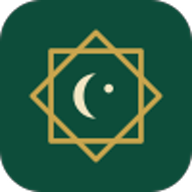
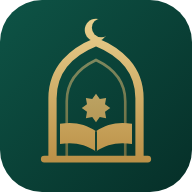
1.0 (B): شعار وأيقونات جديدة، وشاشة بداية، وتحية بالاسم، واقتراح اليوم، وأجراس الصلوات، وبطاقة القبلة
- شعار: قوس معماري وهلال ومصحف مفتوح، وأيقونات Android (عادية ومستديرة وتكيفية) وiOS وPWA من مصدر واحد
- شاشة بداية بالأخضر الداكن وإطار قوس ذهبي
- اقتراح يومي هادئ من إعدادات المستخدم وسجله المحلي (بلا تقييم للحال)
- جرس تنبيه لكل صلاة في صفحة المواقيت، وبطاقة القبلة بالدرجات والمسافة

Claude-Session: https://claude.ai/code/session_01FMDaq16prRpeSrZUs2VVhJ

diff --git a/src/features/home/HomePage.tsx b/src/features/home/HomePage.tsx
@@ -18,7 +18,10 @@ import { nextPrayer, PRAYER_LABELS, PRAYERS, todayTimes } from '../../services/p
 import { dayKey, formatCountdown, formatGregorian, formatHijri, formatTime } from '../../lib/dates'
 import { cityLabel } from '../../services/cities'
 import { adhkarLog, kv, memo } from '../../db/repos'
-import { KhatmaCard } from '../wird/KhatmaCard'
+import { KhatmaCard, useKhatmas } from '../wird/KhatmaCard'
+import { activePlan, dailyTarget } from '../../services/khatma'
+import { dailySuggestion } from '../../services/dailySuggest'
+import { Lightbulb } from 'lucide-react'
 import { useAllLogs } from '../progress/ProgressPage'
 import { computeStats, dailySeries } from '../../services/stats'
 import { adhkarForNow, ayahOfDay, greeting } from '../../services/daily'
@@ -80,6 +83,10 @@ export function HomePage() {
   const done = new Set(adhkar.map((a) => a.category))
   const due = segs.filter((s) => !s.paused && s.status !== 'new' && s.due <= today).length
   const nowAdhkar = adhkarForNow(hour)
+  const khatmas = useKhatmas()
+  const plan = khatmas ? activePlan(khatmas) : null
+  const tgt = plan ? dailyTarget(plan, today) : null
+  const suggestion = dailySuggestion({ hour, hasLocation: !!loc, adhkarDone: done, memoDue: due, khatma: plan && tgt ? { active: true, doneToday: tgt.doneToday >= tgt.pages, from: tgt.from, to: tgt.to, page: plan.nextPage } : { active: false, doneToday: false } })
   const aod = ayahOfDay(today)
   const aodText = data?.verses[aod.surah - 1][aod.ayah - 1]
   const aodName = data?.meta.surahs[aod.surah - 1].name
@@ -88,6 +95,13 @@ export function HomePage() {
   const resumeTo = last ? (settings.readerMode === 'mushaf' && last.page ? `/mushaf/${last.page}` : `/quran/${last.surah}?ayah=${last.ayah}`) : '/quran/1'
 
   const cards: Record<HomeCardId, ReactNode> = {
+    suggest: (
+      <Link to={suggestion.to} className="list-card suggest-card" aria-label={`اقتراح اليوم: ${suggestion.title}`}>
+        <span className="icon-chip"><Lightbulb size={22} aria-hidden="true" /></span>
+        <span className="lc-body"><small>اقتراح اليوم</small><strong>{suggestion.title}</strong><small>{suggestion.body}</small></span>
+        <span className="btn btn-sm btn-primary">{suggestion.action}</span>
+      </Link>
+    ),
     continue: (
       <section className="card home-continue-card" aria-label="أكمل قراءتك">
         {!data ? <Spinner /> : (
@@ -132,7 +146,7 @@ export function HomePage() {
               <Link className="small" to={`/quran/${aod.surah}?ayah=${aod.ayah}`}>سورة {aodName}: {aod.ayah}</Link>
               <span className="row">
                 <button className="btn btn-ghost btn-sm icon-btn" aria-label="استماع لآية اليوم" onClick={() => player.play({ reciterId: settings.reciterId, surah: aod.surah, surahName: aodName!, from: aod.ayah, to: aod.ayah })}><Play size={16} /></button>
-                <Link className="btn btn-ghost btn-sm icon-btn" aria-label="تفسير آية اليوم" to={`/learn?s=${aod.surah}&a=${aod.ayah}`}><Library size={16} /></Link>
+                <Link className="btn btn-sm btn-gold" aria-label="تفسير آية اليوم" to={`/learn?s=${aod.surah}&a=${aod.ayah}`}><Library size={15} /> تفسير الآية</Link>
                 <button className="btn btn-ghost btn-sm icon-btn" aria-label="مشاركة آية اليوم كصورة" onClick={() => setShareAyah(true)}><Image size={16} /></button>
               </span>
             </div>
@@ -208,10 +222,12 @@ export function HomePage() {
   return (
     <div className="home">
       <header className="home-hero">
+        <MosqueScene tone={toneFor(np?.name)} className="home-hero-art" />
         <div className="home-hero-row">
           <Link to="/reminders" className="hero-icon" aria-label="إعدادات التذكير"><Bell size={20} /></Link>
           <div className="home-hero-text">
-            <div className="hero-greet">{greeting(hour, today)}</div>
+            <div className="hero-greet">{settings.displayName.trim() ? `السلام عليكم، ${settings.displayName.trim()}` : greeting(hour, today)}</div>
+            {settings.displayName.trim() && <div className="hero-sub">{greeting(hour, today)}</div>}
             <div className="hero-sub">{formatGregorian(now, loc?.tz)}</div>
             <div className="hero-hijri">{formatHijri(now, loc?.tz, settings.hijriOffset)}</div>
           </div>
@@ -280,6 +296,9 @@ export function HomePage() {
             </li>
           ))}
         </ul>
+        <label className="field" style={{ marginTop: '1rem' }}><span>اسمك للتحية (اختياري، يبقى على جهازك)</span>
+          <input className="input" value={settings.displayName} maxLength={30} onChange={(e) => update({ displayName: e.target.value })} placeholder="مثال: محمد" />
+        </label>
         <h3 style={{ marginTop: '1rem' }}>اختصارات الوصول السريع</h3>
         <p className="small muted">اختر حتى {MAX_QUICK_LINKS} أقسام تستخدمها كثيرًا.</p>
         <div className="quick-choices">

diff --git a/src/features/prayer/PrayerPage.tsx b/src/features/prayer/PrayerPage.tsx
@@ -9,6 +9,32 @@ import { dayKey, shiftDayKey } from '../../lib/dates'
 import type { PrayerName } from '../../services/prayer'
 import type { PrayerKey } from '../../state/settings'
 import { platformName } from '../../platform'
+import { compassName, distanceToKaabaKm, qiblaBearing } from '../../services/qibla'
+
+/** بطاقة القبلة المختصرة: الاتجاه المحسوب بالدرجات من الشمال الجغرافي والمسافة إلى الكعبة */
+function QiblaCard({ lat, lng, place }: { lat: number; lng: number; place: string }) {
+  const deg = qiblaBearing(lat, lng)
+  return (
+    <Link to="/qibla" className="card qibla-card" aria-label={`اتجاه القبلة ${Math.round(deg)} درجة`}>
+      <div>
+        <div className="small muted">اتجاه القبلة من {place}</div>
+        <div className="qc-deg">{Math.round(deg)}°</div>
+        <div className="small">{compassName(deg)} • {Math.round(distanceToKaabaKm(lat, lng)).toLocaleString('ar')} كم إلى الكعبة</div>
+        <div className="small muted" style={{ marginTop: 4 }}>محسوب من الإحداثيات (من الشمال الجغرافي). افتح البوصلة للتوجيه.</div>
+      </div>
+      <svg className="qc-dial" viewBox="0 0 100 100" aria-hidden="true">
+        <circle cx="50" cy="50" r="44" fill="none" stroke="currentColor" strokeOpacity="0.25" strokeWidth="2" />
+        {[0, 90, 180, 270].map((a) => <line key={a} x1="50" y1="8" x2="50" y2="14" stroke="currentColor" strokeOpacity="0.5" strokeWidth="2" transform={`rotate(${a} 50 50)`} />)}
+        <text x="50" y="24" textAnchor="middle" fontSize="9" fill="currentColor" opacity="0.7">ش</text>
+        <g transform={`rotate(${deg} 50 50)`}>
+          <path d="M50 16 L56 50 L50 46 L44 50 Z" fill="#C6A15B" />
+          <rect x="45" y="12" width="10" height="9" rx="1.5" fill="#26352F" stroke="#C6A15B" strokeWidth="1" />
+        </g>
+        <circle cx="50" cy="50" r="3" fill="#C6A15B" />
+      </svg>
+    </Link>
+  )
+}
 import { CityPicker } from '../../components/CityPicker'
 import { useNow } from '../../hooks'
 import { useSettings } from '../../state/SettingsContext'
@@ -100,16 +126,24 @@ export function PrayerPage() {
                     <span className="pr-name">{PRAYER_LABELS[p]}</span>
                     <span className="pr-time">{formatTime(today[p], loc.tz)}</span>
                     <span className="pr-end">
-                      {settings.trackPrayers && p !== 'sunrise'
-                        ? <button className={'prayed-btn' + (prayed.includes(p as PrayerKey) ? ' on' : '')} onClick={() => togglePrayed(p as PrayerKey)} aria-pressed={prayed.includes(p as PrayerKey)} aria-label={`صلّيت ${PRAYER_LABELS[p]}`}><CircleCheck size={18} /></button>
-                        : notif ? <Bell size={15} aria-label="التنبيه مفعّل" /> : null}
+                      {settings.trackPrayers && p !== 'sunrise' && <button className={'prayed-btn' + (prayed.includes(p as PrayerKey) ? ' on' : '')} onClick={() => togglePrayed(p as PrayerKey)} aria-pressed={prayed.includes(p as PrayerKey)} aria-label={`صلّيت ${PRAYER_LABELS[p]}`}><CircleCheck size={18} /></button>}
+                      {p !== 'sunrise' && (
+                        <button className={'bell-btn' + (notif ? ' on' : '')} aria-pressed={n.perPrayer[p as PrayerKey]} aria-label={`تنبيه ${PRAYER_LABELS[p]}`}
+                          title={n.enabled ? undefined : 'التذكيرات العامة متوقفة — فعّلها من إعدادات التذكير'}
+                          onClick={() => update((st) => ({ notifications: { ...st.notifications, perPrayer: { ...st.notifications.perPrayer, [p]: !st.notifications.perPrayer[p as PrayerKey] } } }))}>
+                          {n.perPrayer[p as PrayerKey] ? <Bell size={16} /> : <BellOff size={16} />}
+                        </button>
+                      )}
                     </span>
                   </li>
                 )
               })}
             </ul>
             {settings.trackPrayers && <WeekSummary today={today_} />}
+            {!n.enabled && <p className="small muted" style={{ margin: '0.5rem 0 0' }}>أجراس الصلوات تحدد أي صلاة يُنبَّه لها، والتذكيرات نفسها متوقفة الآن. <Link to="/reminders">تفعيل التذكيرات</Link></p>}
           </section>
+
+          <QiblaCard lat={loc.lat} lng={loc.lng} place={loc.nameAr ?? loc.name} />
 
           {platformName() === 'android' && (
             <section className="card" style={{ gridColumn: '1 / -1' }}>

diff --git a/src/styles/theme.css b/src/styles/theme.css
@@ -95,11 +95,12 @@ main.content > * { animation: page-in 0.22s ease-out; }
 .splash { position: fixed; inset: 0; z-index: 200; overflow: hidden; background: #0e2a22; color: #fff; display: flex; flex-direction: column; justify-content: space-between; cursor: pointer; transition: opacity 0.4s ease; }
 .splash.leaving { opacity: 0; }
 .splash-art { position: absolute; inset: 0; width: 100%; height: 100%; }
-.splash-veil { position: absolute; inset: 0; background: linear-gradient(to bottom, rgba(240, 244, 236, 0.96) 0%, rgba(240, 244, 236, 0.82) 30%, rgba(240, 244, 236, 0) 52%, rgba(6, 24, 19, 0) 70%, rgba(6, 24, 19, 0.85) 100%); }
-.splash-top { position: relative; text-align: center; padding: calc(12vh + env(safe-area-inset-top, 0px)) 1.5rem 0; color: #073B32; animation: rise 0.8s ease-out both; }
-.splash-logo { color: #073B32; }
-.splash-top h1 { font-family: var(--font-classic); font-size: clamp(2.4rem, 9vw, 3.4rem); margin: 0.4rem 0 0.2rem; color: #073B32; }
-.splash-top p { margin: 0; color: #2c4a3f; font-size: 1.05rem; }
+.splash-veil { position: absolute; inset: 0; background: linear-gradient(to bottom, rgba(5, 34, 29, 0.97) 0%, rgba(7, 59, 50, 0.9) 34%, rgba(7, 59, 50, 0.25) 60%, rgba(4, 24, 20, 0.15) 72%, rgba(4, 24, 20, 0.9) 100%); }
+.splash-arch { position: absolute; inset: calc(4vh + env(safe-area-inset-top, 0px)) 7vw 0; width: 86vw; height: 96vh; pointer-events: none; }
+.splash-top { position: relative; text-align: center; padding: calc(13vh + env(safe-area-inset-top, 0px)) 1.5rem 0; color: #F5F0E6; animation: rise 0.8s ease-out both; }
+.splash-logo { color: #C6A15B; filter: drop-shadow(0 4px 14px rgba(198, 161, 91, 0.35)); }
+.splash-top h1 { font-family: var(--font-classic); font-size: clamp(2.4rem, 9vw, 3.4rem); margin: 0.5rem 0 0.2rem; color: #E9CF8E; }
+.splash-top p { margin: 0; color: #F5F0E6; opacity: 0.9; font-size: 1.05rem; }
 .splash-bottom { position: relative; text-align: center; padding: 0 1.5rem calc(2.2rem + env(safe-area-inset-bottom, 0px)); animation: rise 0.8s 0.25s ease-out both; }
 .splash-items { opacity: 0.9; margin: 0 0 1rem; letter-spacing: 0.02em; }
 .splash-sadaqah { font-family: var(--font-classic); font-size: 1.2rem; color: #f0d68f; margin: 0; line-height: 1.8; }
@@ -356,3 +357,19 @@ button.voice-hit { font: inherit; text-align: start; cursor: pointer; width: 100
 .seg button { border: 0; background: none; padding: 0.15rem 0.6rem; border-radius: 8px; font: inherit; font-size: 0.8rem; color: var(--text-muted); cursor: pointer; }
 .seg button[aria-checked='true'] { background: var(--surface); color: var(--primary); font-weight: 700; box-shadow: var(--shadow); }
 .mosque-row .btn { flex-shrink: 0; }
+
+/* ======================= 1.0: الرئيسية ======================= */
+.home-hero-art { position: absolute; inset: 0; width: 100%; height: 100%; opacity: 0.85; }
+.home-hero::after { content: ""; position: absolute; inset: 0; background: linear-gradient(to bottom, rgba(5, 34, 29, 0.62), rgba(7, 59, 50, 0.35) 55%, rgba(7, 59, 50, 0.75)); pointer-events: none; }
+.home-hero-row { z-index: 1; }
+.suggest-card { border-color: color-mix(in srgb, var(--gold-2) 55%, var(--border)); background: linear-gradient(135deg, var(--gold-soft), var(--surface) 70%); }
+.suggest-card .lc-body small:first-child { color: var(--gold); font-weight: 700; }
+.suggest-card .btn { flex-shrink: 0; }
+.prayer-row { grid-template-columns: 36px 1fr auto auto; }
+.pr-end { gap: 0.3rem; }
+.bell-btn { width: 34px; height: 34px; border-radius: 50%; border: 1px solid var(--border); background: var(--surface); color: var(--text-muted); display: grid; place-items: center; cursor: pointer; }
+.bell-btn.on { color: var(--gold); border-color: color-mix(in srgb, var(--gold-2) 60%, var(--border)); background: var(--gold-soft); }
+.qibla-card { grid-column: 1 / -1; display: flex; align-items: center; justify-content: space-between; gap: 1rem; text-decoration: none; color: inherit; background: linear-gradient(135deg, var(--brand-dark), #0B4A3E); color: #F5F0E6; border-color: #0B4A3E; }
+.qibla-card .muted { color: rgba(245, 240, 230, 0.75); }
+.qc-deg { font-size: 2.2rem; font-weight: 700; color: #E9CF8E; line-height: 1.2; }
+.qc-dial { width: 110px; height: 110px; flex-shrink: 0; color: #F5F0E6; }

diff --git a/src/state/settings.ts b/src/state/settings.ts
@@ -55,7 +55,7 @@ export const QURAN_FONTS: { id: QuranFont; label: string; family: string; note: 
   { id: 'scheherazade', label: 'شهرزاد', family: '"Scheherazade New", "Amiri Quran", serif', note: 'نسخي واضح بحروف كبيرة' },
   { id: 'noto-naskh', label: 'نسخ حديث', family: '"Noto Naskh Arabic", "Amiri Quran", serif', note: 'خط حديث بسيط' },
 ]
-export type HomeCardId = 'continue' | 'khatma' | 'adhkar' | 'ayah' | 'quick' | 'summary' | 'dedication' | 'shortcuts'
+export type HomeCardId = 'continue' | 'suggest' | 'khatma' | 'adhkar' | 'ayah' | 'quick' | 'summary' | 'dedication' | 'shortcuts'
 
 export interface Settings {
   /** gold: أسود وذهبي (مبني على الوضع الداكن مع لون ذهبي بدل الأخضر) */
@@ -90,6 +90,8 @@ export interface Settings {
   keepAwake: boolean
   /** متابعة أداء الصلوات (اختيارية، تُحفظ على الجهاز فقط) */
   trackPrayers: boolean
+  /** اسم اختياري للتحية في الرئيسية (يبقى على الجهاز) */
+  displayName: string
 }
 
 export const QUICK_LINK_CHOICES = ['/tasbih', '/qibla', '/duas', '/calendar', '/adhkar', '/quran', '/listen', '/prayer', '/wird', '/memorize', '/learn', '/my-adhkar', '/search', '/progress', '/reminders', '/studio', '/mosques']
@@ -98,6 +100,7 @@ export const DEFAULT_QUICK_LINKS = ['/qibla', '/tasbih', '/wird', '/calendar']
 export const MAX_QUICK_LINKS = 8
 
 export const HOME_CARD_LABELS: Record<HomeCardId, string> = {
+  suggest: 'اقتراح اليوم',
   continue: 'أكمل قراءتك',
   khatma: 'ورد القرآن',
   adhkar: 'أذكار الوقت',
@@ -111,7 +114,7 @@ export const HOME_CARD_LABELS: Record<HomeCardId, string> = {
 /** بطاقة الإهداء جزء ثابت من هوية التطبيق: يمكن تغيير موضعها لا إخفاؤها. */
 export const LOCKED_HOME_CARDS: HomeCardId[] = ['dedication']
 
-export const DEFAULT_HOME_CARDS: Settings['homeCards'] = (['continue', 'khatma', 'adhkar', 'summary', 'ayah', 'quick', 'dedication', 'shortcuts'] as HomeCardId[]).map((id) => ({ id, visible: true }))
+export const DEFAULT_HOME_CARDS: Settings['homeCards'] = (['continue', 'suggest', 'khatma', 'adhkar', 'summary', 'ayah', 'quick', 'dedication', 'shortcuts'] as HomeCardId[]).map((id) => ({ id, visible: true }))
 
 export const DEFAULT_NOTIFICATIONS: NotificationSettings = {
   enabled: false,
@@ -159,6 +162,7 @@ export const DEFAULT_SETTINGS: Settings = {
   adhkarVibrate: true,
   keepAwake: true,
   trackPrayers: false,
+  displayName: '',
 }
 
 /** يضمن أن قائمة بطاقات الرئيسية تحتوي كل البطاقات المعروفة مرة واحدة، وأن البطاقات المقفلة ظاهرة */

diff --git a/src/services/dailySuggest.ts b/src/services/dailySuggest.ts
@@ -1,0 +1,24 @@
+// «اقتراح اليوم»: اقتراح واحد هادئ يُبنى من إعدادات المستخدم وسجله على جهازه فقط.
+// لا يقيّم حال المستخدم ولا يلومه، ولا يدّعي معرفة ما لا يسجله التطبيق.
+import { timeOfDay } from './daily'
+
+export interface SuggestInput {
+  hour: number
+  hasLocation: boolean
+  adhkarDone: Set<string>
+  memoDue: number
+  khatma: { active: boolean; doneToday: boolean; from?: number; to?: number; page?: number }
+}
+export interface Suggestion { id: string; title: string; body: string; to: string; action: string }
+
+export function dailySuggestion(i: SuggestInput): Suggestion {
+  if (!i.hasLocation) return { id: 'city', title: 'اختر مدينتك', body: 'لتظهر مواقيت الصلاة والعدّ التنازلي واتجاه القبلة.', to: '/prayer', action: 'اختيار المدينة' }
+  const t = timeOfDay(i.hour)
+  if (t === 'morning' && !i.adhkarDone.has('morning')) return { id: 'morning', title: 'أذكار الصباح', body: 'دقائق قليلة تبدأ بها يومك.', to: '/adhkar/morning', action: 'ابدأ الأذكار' }
+  if (t === 'evening' && i.hour >= 15 && !i.adhkarDone.has('evening')) return { id: 'evening', title: 'أذكار المساء', body: 'وقتها من العصر إلى المغرب.', to: '/adhkar/evening', action: 'ابدأ الأذكار' }
+  if (i.memoDue > 0) return { id: 'review', title: 'مراجعة الحفظ', body: `${i.memoDue} ${i.memoDue === 1 ? 'مقطع حان' : 'مقاطع حان'} موعد مراجعته.`, to: '/memorize', action: 'ابدأ المراجعة' }
+  if (i.khatma.active && !i.khatma.doneToday) return { id: 'wird', title: 'ورد اليوم', body: `الصفحات ${i.khatma.from}–${i.khatma.to} من خطة الختمة.`, to: `/mushaf/${i.khatma.page ?? i.khatma.from}`, action: 'اقرأ الآن' }
+  if (t === 'night' && !i.adhkarDone.has('sleep')) return { id: 'sleep', title: 'أذكار النوم', body: 'قبل أن تنام: أذكار النوم في دقيقتين.', to: '/adhkar/sleep', action: 'ابدأ الأذكار' }
+  if (!i.khatma.active) return { id: 'plan', title: 'خطة ختمة تناسب وقتك', body: 'اختر المدة أو الدقائق المتاحة يوميًا، ويُحسب وردك تلقائيًا.', to: '/wird', action: 'ضبط الخطة' }
+  return { id: 'reflect', title: 'تدبّر آية اليوم', body: 'اقرأ آية اليوم مع التفسير الميسر.', to: '/learn', action: 'فتح التفسير' }
+}

diff --git a/src/components/Art.tsx b/src/components/Art.tsx
@@ -104,24 +104,17 @@ export function MosqueScene({ tone = 'sunset', variant = 'wide', className, labe
 // قمة القبة الكبرى للمسجد الرئيسي (نفس حساب mosque)
 function by(base: number) { return base - 40 - 26 * 1.7 - 9 }
 
-/** شعار رفيق المسلم: قوس محراب يحتضن قبة ومئذنتين، يعلوه هلال */
+/** شعار رفيق المسلم: قوس معماري يعلوه هلال، وفيه نجمة ومصحف مفتوح (نفس تصميم أيقونة التطبيق، بلون واحد) */
 export function LogoMark({ size = 72, className }: { size?: number; className?: string }) {
   const id = useId().replace(/:/g, '')
   return (
-    <svg className={className} width={size} height={size} viewBox="0 0 100 100" aria-hidden="true">
-      <mask id={`lm${id}`}><rect width="100" height="100" fill="#fff" /><circle cx="54" cy="8.5" r="6" fill="#000" /></mask>
-      <circle cx="50" cy="10" r="7" fill="currentColor" mask={`url(#lm${id})`} />
-      <g fill="none" stroke="currentColor" strokeWidth="4.5" strokeLinecap="round" strokeLinejoin="round">
-        <path d="M50 21 C30 26 17 40 17 60 V93 M50 21 C70 26 83 40 83 60 V93" />
-        <path d="M9 93 H91" />
-      </g>
-      <g fill="currentColor">
-        <path d={dome(50, 70, 15)} />
-        <rect x="33" y="70" width="34" height="23" rx="1.5" />
-        <rect x="49.3" y="38" width="1.4" height="7" />
-        <path d={minaret(28, 93, 34, 4.4)} />
-        <path d={minaret(72, 93, 34, 4.4)} />
-      </g>
+    <svg className={className} width={size} height={size} viewBox="96 40 320 400" aria-hidden="true">
+      <mask id={`lm${id}`}><rect x="0" y="0" width="512" height="512" fill="#fff" /><circle cx="270" cy="74" r="25" fill="#000" /></mask>
+      <circle cx="256" cy="80" r="30" fill="currentColor" mask={`url(#lm${id})`} />
+      <path d="M140 420 V262 C140 182 196 136 256 112 C316 136 372 182 372 262 V420" fill="none" stroke="currentColor" strokeWidth="24" strokeLinecap="round" strokeLinejoin="round" />
+      <path d="M256 250 l10 14 17 -3 -3 17 14 10 -14 10 3 17 -17 -3 -10 14 -10 -14 -17 3 3 -17 -14 -10 14 -10 -3 -17 17 3 Z" fill="currentColor" />
+      <path d="M256 404 C228 384 196 378 160 384 V330 C196 324 228 330 256 350 Z M256 404 C284 384 316 378 352 384 V330 C316 324 284 330 256 350 Z" fill="currentColor" />
+      <path d="M118 424 H394" stroke="currentColor" strokeWidth="20" strokeLinecap="round" />
     </svg>
   )
 }

diff --git a/src/services/dailySuggest.test.ts b/src/services/dailySuggest.test.ts
@@ -1,0 +1,24 @@
+import { describe, expect, it } from 'vitest'
+import { dailySuggestion, type SuggestInput } from './dailySuggest'
+
+const base: SuggestInput = { hour: 9, hasLocation: true, adhkarDone: new Set(), memoDue: 0, khatma: { active: true, doneToday: true } }
+const pick = (p: Partial<SuggestInput>) => dailySuggestion({ ...base, ...p }).id
+
+describe('اقتراح اليوم', () => {
+  it('بلا مدينة: اختيار المدينة أولًا', () => expect(pick({ hasLocation: false })).toBe('city'))
+  it('صباحًا: أذكار الصباح ما لم تُسجَّل', () => {
+    expect(pick({ hour: 7 })).toBe('morning')
+    expect(pick({ hour: 7, adhkarDone: new Set(['morning']) })).toBe('reflect')
+  })
+  it('بعد العصر: أذكار المساء', () => expect(pick({ hour: 16 })).toBe('evening'))
+  it('المراجعة المستحقة ثم ورد الختمة', () => {
+    expect(pick({ hour: 13, memoDue: 2 })).toBe('review')
+    expect(pick({ hour: 13, khatma: { active: true, doneToday: false, from: 5, to: 9 } })).toBe('wird')
+  })
+  it('بلا خطة ختمة: اقتراح خطة', () => expect(pick({ hour: 13, khatma: { active: false, doneToday: false } })).toBe('plan'))
+  it('ليلًا: أذكار النوم', () => expect(pick({ hour: 23 })).toBe('sleep'))
+  it('النص هادئ بلا لوم', () => {
+    const all = [7, 13, 16, 23].map((hour) => dailySuggestion({ ...base, hour, khatma: { active: false, doneToday: false } }))
+    for (const s of all) expect(s.title + s.body).not.toMatch(/قصّرت|تأخرت|فاتك|يجب عليك/)
+  })
+})

diff --git a/src/app/Splash.tsx b/src/app/Splash.tsx
@@ -31,10 +31,15 @@ export function Splash() {
     <div className={'splash' + (leaving ? ' leaving' : '')} role="dialog" aria-label="رفيق المسلم" onClick={() => setShow(false)}>
       <MosqueScene tone="sunset" variant="tall" className="splash-art" />
       <div className="splash-veil" />
+      {/* إطار قوس معماري ذهبي */}
+      <svg className="splash-arch" viewBox="0 0 100 160" preserveAspectRatio="none" aria-hidden="true">
+        <path d="M6 158 V62 C6 30 28 14 50 4 C72 14 94 30 94 62 V158" fill="none" stroke="#C6A15B" strokeWidth="0.9" vectorEffect="non-scaling-stroke" />
+        <path d="M10 158 V64 C10 35 30 20 50 10 C70 20 90 35 90 64 V158" fill="none" stroke="#C6A15B" strokeWidth="0.5" opacity="0.5" vectorEffect="non-scaling-stroke" />
+      </svg>
       <div className="splash-top">
-        <LogoMark size={92} className="splash-logo" />
+        <LogoMark size={104} className="splash-logo" />
         <h1>رفيق المسلم</h1>
-        <p>معك في كل خطوة نحو الله</p>
+        <p>في كل خطوة.. نحو رضا الله</p>
       </div>
       <div className="splash-bottom">
         <p className="splash-items">القرآن • الصلاة • الأذكار • وأكثر</p>
